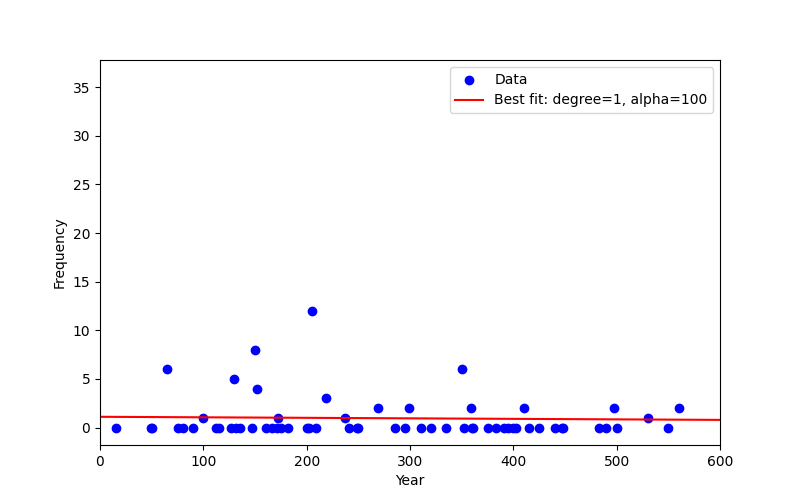
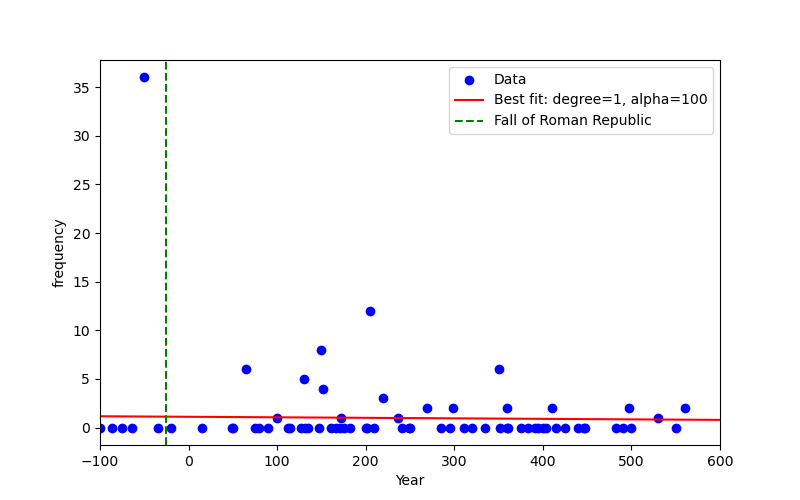
ready for testing

diff --git a/backend/PolyRegression.py b/backend/PolyRegression.py
@@ -17,6 +17,7 @@ def charts_from_word(word, start_date, end_date):
     # Convert to numpy array
     word1 = df.to_numpy()
     line_best_fit(word1, start_date, end_date, "frequency")
+
     #now for sentiment
     df2 = pd.read_csv('greek_word_sentiment/' + word + '_sentiment_data.csv')
     df2 = df2[['year', 'mean_weighted_sentiment']]
@@ -63,10 +64,11 @@ def line_best_fit(input, start_date, end_date, mode = "freqency"):
     plt.ylabel(mode)
     plt.xlim(max(X.min(), start_date), min(X.max(), end_date))
     plt.plot(X_plot, y_plot, color='red', label=f'Best fit: degree={best_degree}, alpha={best_alpha}')
-    if(max(X.min(), start_date) < -25 and min(X.max(), end_date) > -25):
-        plt.axvline(x=-25, color='green', linestyle='--', label='Fall of Roman Republic')
+    if(max(X.min(), start_date) < -27 and min(X.max(), end_date) > -27):
+        plt.axvline(x=-27, color='green', linestyle='--', label='Fall of Roman Republic')
     plt.legend()
     plt.gcf().set_size_inches(8, 5)
     plt.savefig(f'temp/current_' + mode, dpi=100)
+    plt.clf()
 if __name__ == '__main__':
-    charts_from_word('α', 0, 600)
+    charts_from_word('α', -100, 600)
